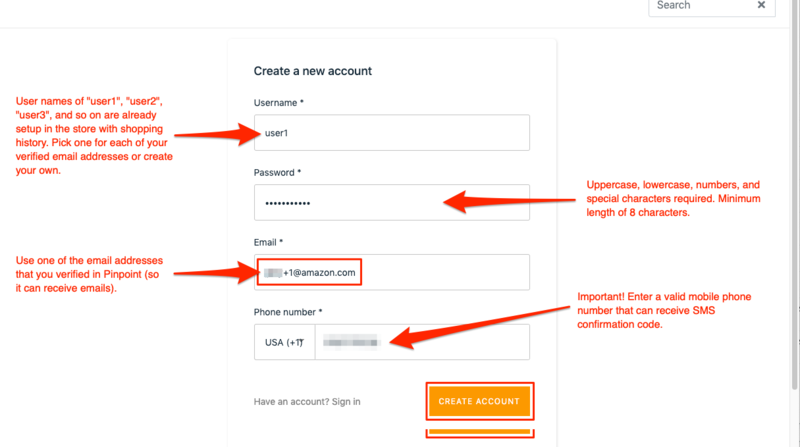
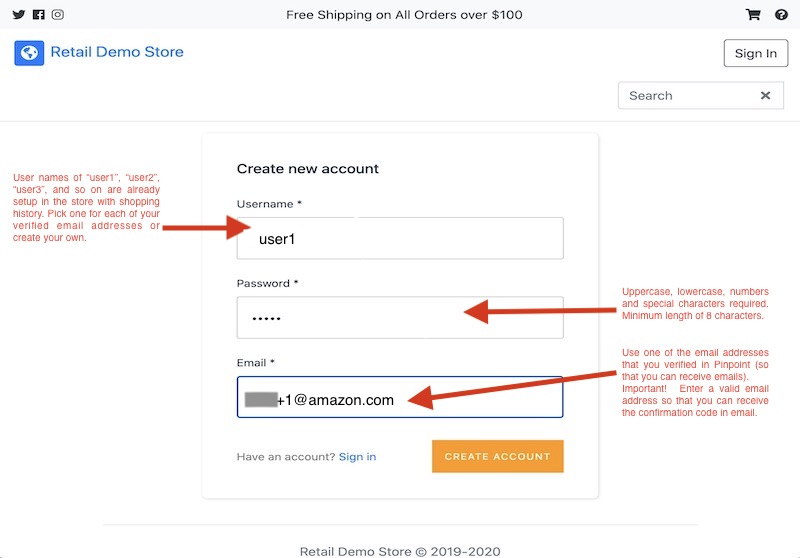
Update the READMEs and instructions to reflect changes in signup

diff --git a/documentation/1-Creating-account.md b/documentation/1-Creating-account.md
@@ -12,13 +12,13 @@ Click the “Sign In” button in the right side of the top navigation bar. This
 
 Figure 3. Create Account Link.
 
-Complete the “Sign Up Account” form by entering appropriate values in each field. Note that your password must meet the complexity requirements configured in Amazon Cognito (upper- and lower-cased characters, numbers, and special characters). In addition, be sure to enter your actual mobile phone number (if possible) since Cognito will send you a confirmation code via SMS once you submit the form. Otherwise, if you enter a fake phone number, the only way to confirm your account is manually in the Cognito User Pool page in the AWS console. If you need to create multiple accounts to demonstrate behavior across users, a useful tip is to append a different mailbox name (“+” notation) to the username portion of your email address for each user account. For example, login+user5@example.com. You will still receive emails addressed using this format in your inbox.
+Complete the “Sign Up Account” form by entering appropriate values in each field. Note that your password must meet the complexity requirements configured in Amazon Cognito (upper- and lower-cased characters, numbers, and special characters). In addition, be sure to enter a valid email address since Cognito will send you a confirmation code via email once you submit the form. Otherwise, the only way to confirm your account is manually in the Cognito User Pool page in the AWS console. If you need to create multiple accounts to demonstrate behavior across users, a useful tip is to append a different mailbox name (“+” notation) to the username portion of your email address for each user account. For example, login+user5@example.com. You will still receive emails addressed using this format in your inbox.
 
 ![image.png](../workshop/images/retaildemostore-create-acct.png)
 
 Figure 4. Create Account page.
 
-Within a few seconds after pressing the “Create Account” button on the “Sign Up Account” form you should receive an SMS on your mobile phone. The SMS will contain a 6-digit confirmation code. Enter this code on the “Confirm Sign Up” form and press the “Confirm” button. If you don’t receive a confirmation code, you can have it resent or you can manually confirm your user account in the Amazon Cognito User Pool page in the AWS console in the AWS account where the Retail Demo Store instance has been deployed.
+Within a few seconds after pressing the “Create Account” button on the “Sign Up Account” form you should receive an email on the provided email address. The email will contain a 6-digit confirmation code. Enter this code on the “Confirm Sign Up” form and press the “Confirm” button. If you don’t receive a confirmation code, you can have it resent or you can manually confirm your user account in the Amazon Cognito User Pool page in the AWS console in the AWS account where the Retail Demo Store instance has been deployed.
 
 ![image.png](../workshop/images/retaildemostore-confirm.png)
 

diff --git a/README.md b/README.md
@@ -20,7 +20,7 @@ The Retail Demo Store has been tested in the AWS regions indicated in the deploy
 
 ## Getting Started
 
-***IMPORTANT NOTE:** Deploying this demo application in your AWS account will create and consume AWS resources, which will cost money. In addition, some features such as account registration via Amazon Cognito and the messaging workshop for Amazon Pinpoint require users to provide a valid mobile phone number and email address to demonstrate completely. Therefore, to avoid ongoing charges and to clean up all data, be sure to follow all workshop clean up instructions and shutdown/remove all resources by deleting the CloudFormation stack once you are finished.*
+***IMPORTANT NOTE:** Deploying this demo application in your AWS account will create and consume AWS resources, which will cost money. In addition, some features such as account registration via Amazon Cognito and the messaging workshop for Amazon Pinpoint require users to provide a valid email address to demonstrate completely. Therefore, to avoid ongoing charges and to clean up all data, be sure to follow all workshop clean up instructions and shutdown/remove all resources by deleting the CloudFormation stack once you are finished.*
 
 To get the Retail Demo Store running in your own AWS account, follow these instructions. If you are attending an AWS-led event where temporary AWS accounts are provided, this has likely already been done for you.
 
